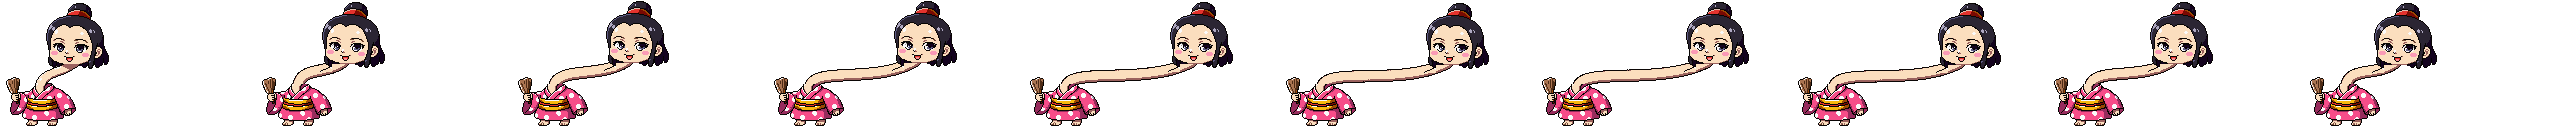
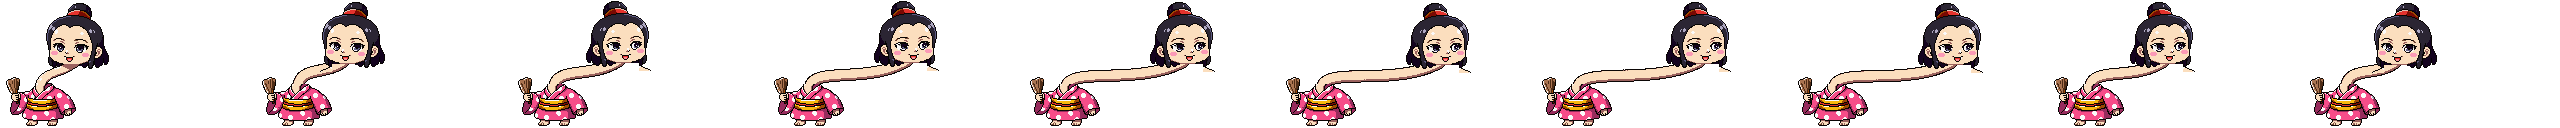
Turn Nobiko-san's head to face the middle as she peeks
Her face is drawn turned a little to the left, so the peek mirrors her head
once she's on her way out and turns it back before she springs home. The
neck ends a little earlier under the mirrored jaw.

Claude-Session: https://claude.ai/code/session_01JTmPY8oiZjd9rqttRCoYTX

diff --git a/tools/art/sources/nobiko-peek.py b/tools/art/sources/nobiko-peek.py
@@ -22,11 +22,11 @@ BASE, CHIN = (42, 88), (67, 63)
 EYES = [(53, 45, 65, 51), (75, 45, 89, 51)]  # her eyes in the portrait: x0, y0, x1, y1 (exclusive)
 SKINS = {SKIN[:3], (250, 154, 182)}  # skin and blush
 
-def glance(im, k):
+def glance(im, k, eyes=EYES):
     """Her eyes look k pixels to the right: in each row the iris and its highlights slide over inside the
     eye's outline, and white sclera fills in behind. Ink within two pixels of skin is the (two-pixel) outline and stays put."""
     out = im.copy()
-    for x0, y0, x1, y1 in EYES:
+    for x0, y0, x1, y1 in eyes:
         def skin(x, y): return im.getpixel((x, y))[:3] in SKINS
         def inside(x, y):
             if skin(x, y): return False
@@ -39,8 +39,14 @@ def glance(im, k):
                 out.putpixel((x, y), im.getpixel((x - k, y)) if x - k in xs else (250, 249, 249, 255))
     return out
 
-# (head offset x, y) per frame: out, a look, a second lean in, then a spring back to the idle pose.
-OFFSETS = [(0, 0), (20, -1), (48, -2), (80, -2), (100, -1), (100, 0), (104, -1), (100, 0), (56, -1), (24, 0)]
+# (head offset x, y, head flipped) per frame: out, a turn to face the middle of the screen, a look, a second lean
+# in, then a turn back and a spring back to the idle pose. Her face is drawn turned a little to the left, so the
+# mirrored head faces right, towards the bubble and the answers.
+OFFSETS = [(0, 0, False), (20, -1, False), (48, -2, True), (80, -2, True), (100, -1, True), (100, 0, True),
+           (104, -1, True), (100, 0, True), (56, -1, True), (24, 0, False)]
+FLIPPED = head.transpose(Image.FLIP_LEFT_RIGHT)
+FLIPPED_EYES = [(128 - x1, y0, 128 - x0, y1) for x0, y0, x1, y1 in EYES]
+FLIP_SHIFT = 2 * CHIN[0] - 127  # keeps the mirrored chin on the end of the neck
 
 def bezier(p0, p1, p2, p3, n):
     for i in range(n + 1):
@@ -55,13 +61,13 @@ def disc(im, cx, cy, r, colour):
                 im.putpixel((x, y), colour)
 
 sheet = Image.new('RGBA', (W * len(OFFSETS), H))
-for i, (dx, dy) in enumerate(OFFSETS):
+for i, (dx, dy, flip) in enumerate(OFFSETS):
     f = Image.new('RGBA', (W, H))
-    if (dx, dy) == (0, 0):  # at rest she is the portrait itself, so the sheet starts on the idle pose
+    if dx == 0:  # at rest she is the portrait itself, so the sheet starts on the idle pose
         f.alpha_composite(src)
         sheet.alpha_composite(f, (i * W, 0))
         continue
-    chin = (CHIN[0] + dx, CHIN[1] + dy)
+    chin = (CHIN[0] + dx - (8 if flip else 0), CHIN[1] + dy)  # the mirrored jaw is shorter on the right: end the neck under it
     # Up out of the collar, then a long S out to the chin; the dip sags lower the further she reaches.
     sag = min(14, dx / 6)
     pts = list(bezier(BASE, (BASE[0] + 2, BASE[1] - 22), (chin[0] - 12 - dx / 3, chin[1] + 10 + sag), chin, 80))
@@ -71,6 +77,8 @@ for i, (dx, dy) in enumerate(OFFSETS):
     for x, y in pts: disc(neck, x - 0.4, y - 0.9, 4.2, SKIN)
     f.alpha_composite(neck)
     f.alpha_composite(body)  # over the neck, so it disappears into the collar
-    f.alpha_composite(glance(head, 1 if dx < 40 else 2), (dx, dy))  # she looks where she's going
+    k = 1 if dx < 40 else 2  # she looks where she's going
+    if flip: f.alpha_composite(glance(FLIPPED, k, FLIPPED_EYES), (dx + FLIP_SHIFT, dy))
+    else: f.alpha_composite(glance(head, k), (dx, dy))
     sheet.alpha_composite(f, (i * W, 0))
 sheet.save(sys.argv[2])
